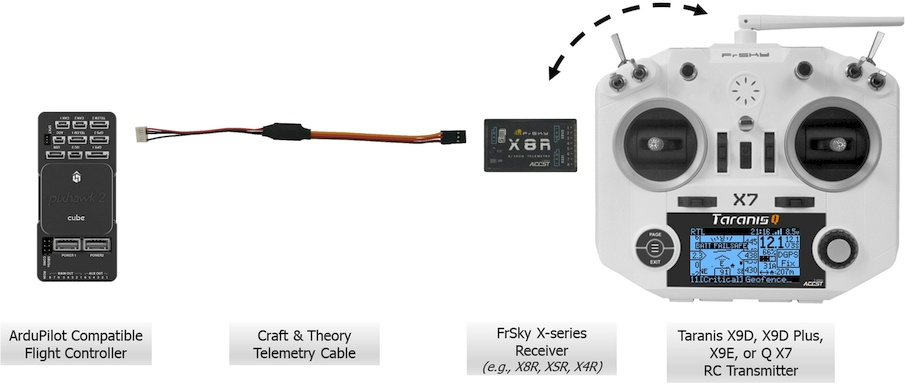
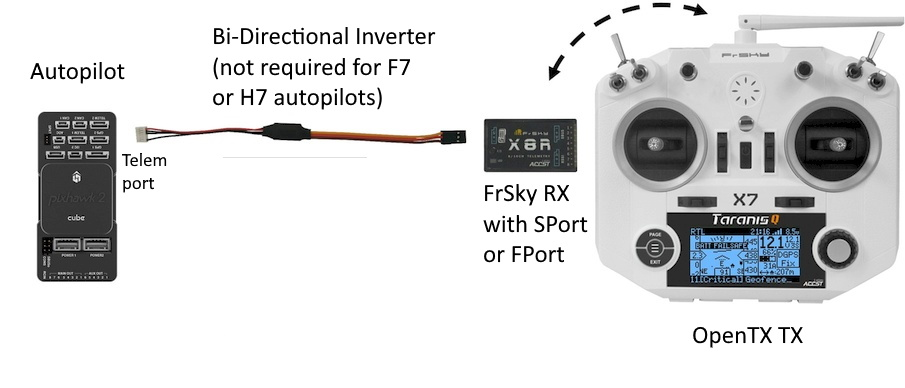
Reorg Sport-Fport connection diagrams

diff --git a/common/source/docs/common-connecting-sport-fport.rst b/common/source/docs/common-connecting-sport-fport.rst
@@ -1,0 +1,29 @@
+.. _common-connecting-sport-fport:
+
+===================================
+Connecting to FrSky Sport and FPort
+===================================
+
+Some FrSky receivers have the ability to relay telemetry data from the vehicle to the transmitter.
+
+This was done initially via their SPort capability. And later, via an additional new protocol called :ref:`FPort<common-Fport-receivers>` which also includes the RC data to the autopilot.
+
+In order to connect to these ports on the FrSky reciever, any UART on the autopilot (normally a "TELEM" port) is used. However, both SPort and FPort are bi-directional protocols and require signal inversion in both directions in order to interface to the autopilot's UART.
+
+If the autopilot uses an F7 or H7 processor, then this can be done by appropriately configuring the UART port on the autopilot. However, most F4 based autopilots do not have this capability and required inverters externally. A few F4 autopilots have these on the boards themselves and label the port "FrSky Telem", but most do not. Those require an added bi-directional inverter connected between the autopilot and the receiver's SPort or FPort. in addition, some FrSky receivers provide an optional pad with the SPort or FPort already "inverted", so no external inversion is required if that is used. The various connection configurations are shown below (FPort is used in the diagrams, but just substitute SPort for the FPort labels in the images when using SPort connections):
+
+Connections
+===========
+
+.. image:: ../../../images/FPort-wiring-a.jpg
+    :target: ../_images/FPort-wiring-a.jpg
+
+.. image:: ../../../images/FPort-wiring-b.jpg
+    :target: ../_images/FPort-wiring-b.jpg
+
+.. image:: ../../../images/FPort-wiring-c.jpg
+    :target: ../_images/FPort-wiring-c.jpg
+
+
+.. note:: some boards can have the FPort connected to the UARTs RX pin instead of TX pin as shown above. See :ref:`common-Fport-receivers` for more information.
+
